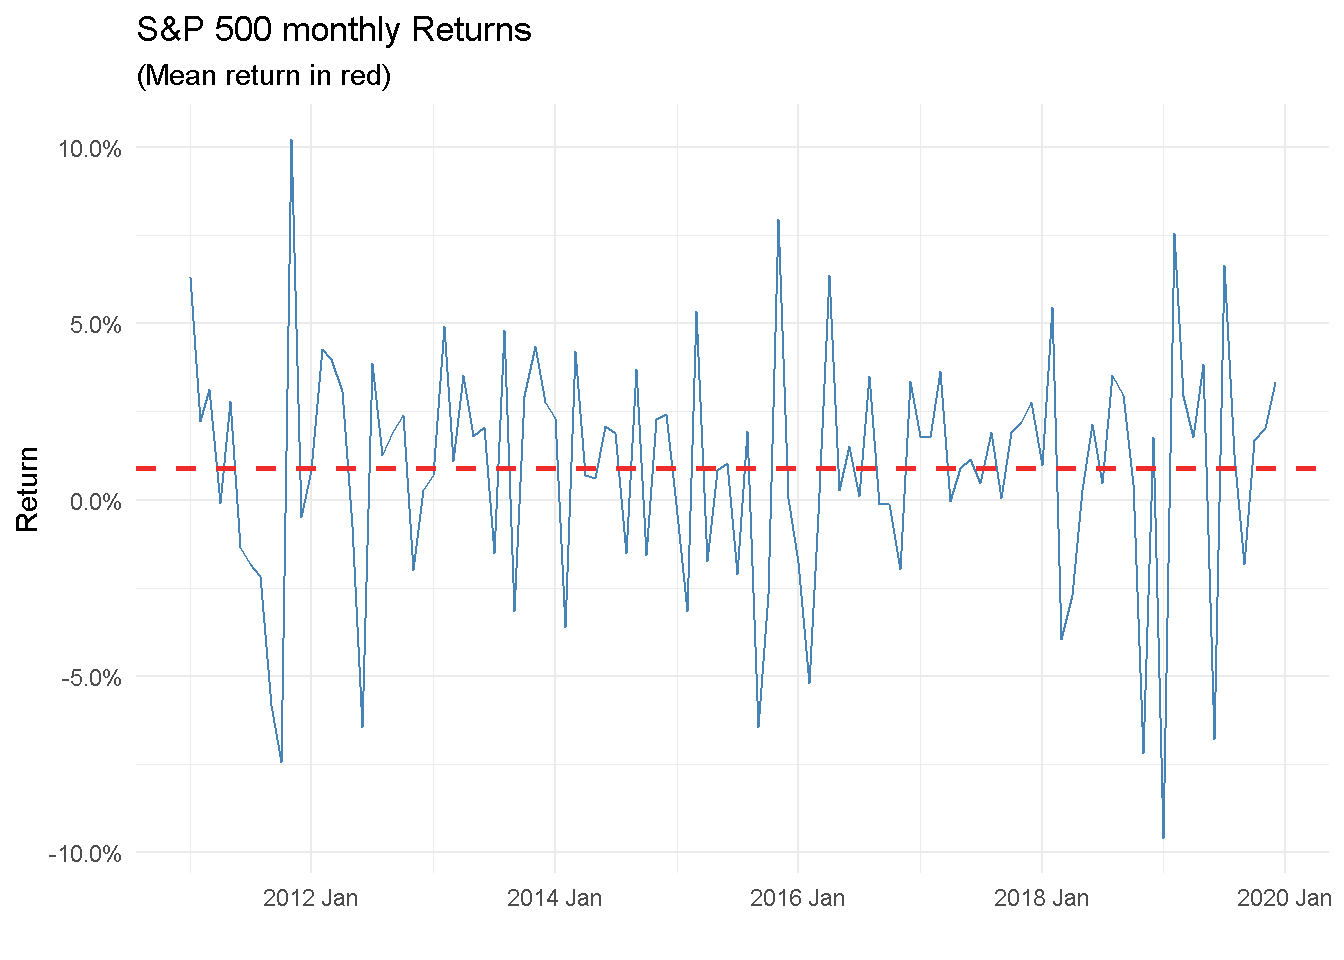
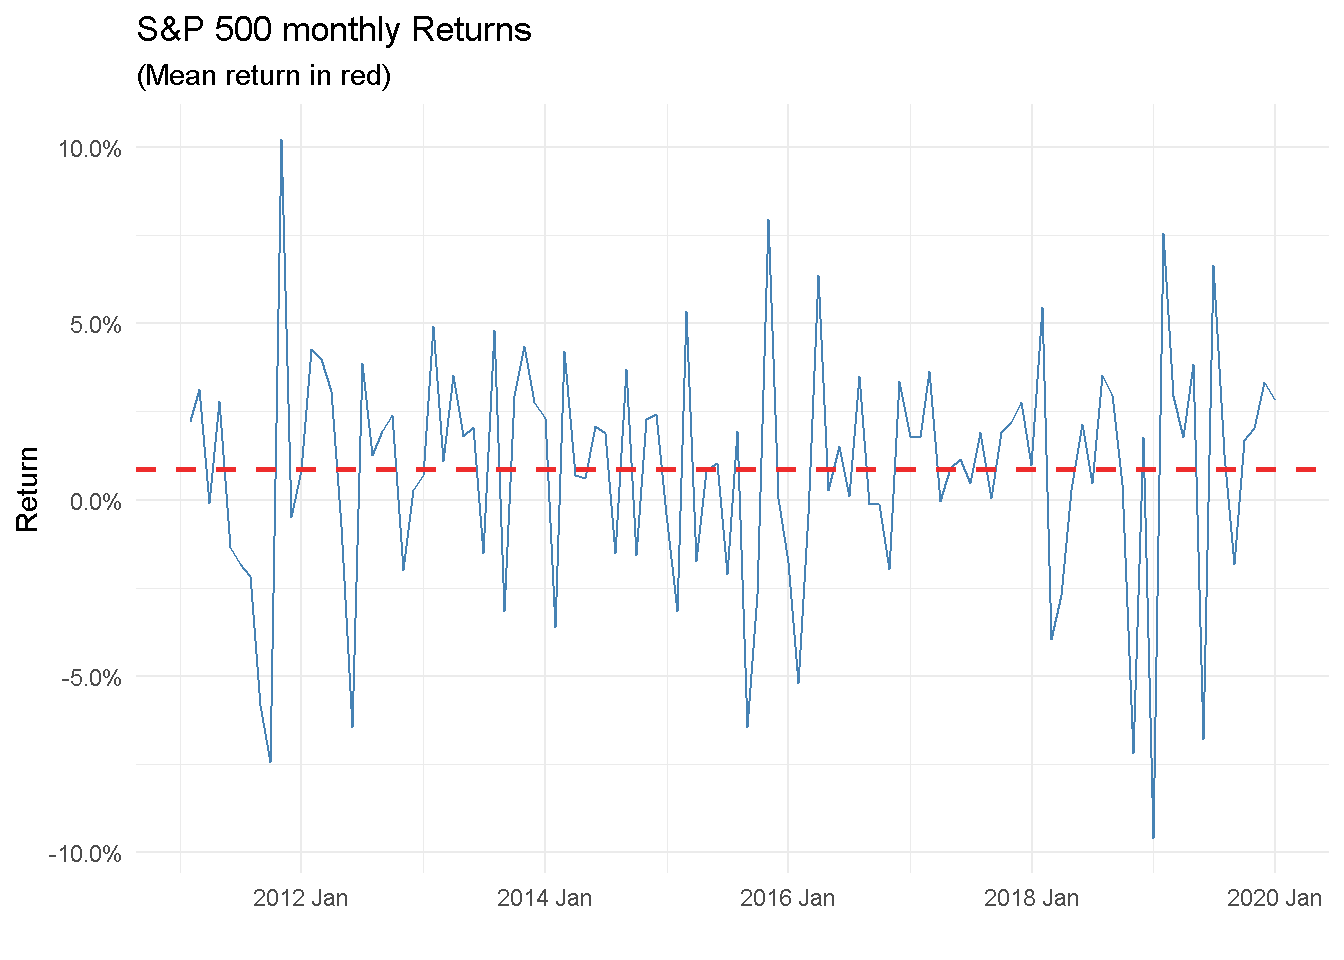
new post

diff --git a/public/post/forecasting-s-p-500-returns-with-r-part-1/index.html b/public/post/forecasting-s-p-500-returns-with-r-part-1/index.html
@@ -24,7 +24,7 @@
         "datePublished": "2020-06-11 00:00:00 \x2b0000 UTC",
         "dateModified" : "2020-06-11 00:00:00 \x2b0000 UTC",
         "url" : "\/post\/forecasting-s-p-500-returns-with-r-part-1\/",
-        "wordCount" : "3032",
+        "wordCount" : "3026",
         "keywords" : [ "Stocks","Blog" ]
     }
     </script>
@@ -72,7 +72,7 @@ Why predict S&amp;P 500 returns? Millions of people are invested in U.S. stocks 
 Why predict S&amp;P 500 returns? Millions of people are invested in U.S. stocks through pension plans and individual investment accounts.">
 <meta itemprop="datePublished" content="2020-06-11T00:00:00&#43;00:00" />
 <meta itemprop="dateModified" content="2020-06-11T00:00:00&#43;00:00" />
-<meta itemprop="wordCount" content="3032">
+<meta itemprop="wordCount" content="3026">
 
 
 
@@ -614,8 +614,7 @@ SP500_tbl &lt;- data %&gt;%
     slice(endpoints(date, on = &quot;month&quot;)) %&gt;%
     mutate(ROC.SP500 = ROC(SP500)) %&gt;%
     drop_na() %&gt;%
-    mutate(date = date + lubridate::days(1)) %&gt;%
-    filter(between(date, &quot;2011-01-01&quot;, &quot;2019-12-01&quot;))
+    filter(between(date, &quot;2011-01-31&quot;, &quot;2019-12-31&quot;))
 
 # Coerce the data to a time series
 SP500_ts &lt;- SP500_tbl %&gt;%
@@ -627,7 +626,7 @@ SP500_tsi &lt;- as_tsibble(SP500_ts, index = date) %&gt;%
 </div>
 <div id="univarite-analysis" class="section level3">
 <h3>Univarite Analysis</h3>
-<p>Let’s look at the S&amp;P 500 time series as a univariate series. Is it possible to predict with reasonable accuracy future returns of the S&amp;P 500 just looking at historical data over the past ten years? Is there predictable seasonality, for example? Let’s take a look at the data in its original form and do some exploratory analysis.</p>
+<p>Let’s look at the S&amp;P 500 time series as a univariate series. Is it possible to predict with reasonable accuracy future returns of the S&amp;P 500 just looking at historical data over the past nine years? Is there predictable seasonality, for example? Let’s take a look at the data in its original form and do some exploratory analysis.</p>
 <pre class="r"><code># Scatterplot
 SP500_tbl %&gt;%
     ggplot(aes(x = date, y = ROC.SP500)) + #, color = ROC.SP500 &gt; mean(ROC.SP500))) +
@@ -643,12 +642,12 @@ SP500_tbl %&gt;%
 <p><img src="/post/forecasting-s-p-500-returns-with-r-part-1_files/figure-html/scatterplot-1.png" width="672" /></p>
 <pre class="r"><code>summary(SP500_tbl)</code></pre>
 <pre><code>##       date                SP500        ROC.SP500        
-##  Min.   :2011-01-01   Min.   :1131   Min.   :-0.096265  
-##  1st Qu.:2013-03-24   1st Qu.:1556   1st Qu.:-0.005685  
-##  Median :2015-06-16   Median :2059   Median : 0.012781  
-##  Mean   :2015-06-16   Mean   :2044   Mean   : 0.009061  
-##  3rd Qu.:2017-09-08   3rd Qu.:2480   3rd Qu.: 0.029301  
-##  Max.   :2019-12-01   Max.   :3141   Max.   : 0.102307</code></pre>
+##  Min.   :2011-01-31   Min.   :1131   Min.   :-0.096265  
+##  1st Qu.:2013-04-22   1st Qu.:1590   1st Qu.:-0.005685  
+##  Median :2015-07-15   Median :2061   Median : 0.012781  
+##  Mean   :2015-07-16   Mean   :2063   Mean   : 0.008736  
+##  3rd Qu.:2017-10-07   3rd Qu.:2510   3rd Qu.: 0.028465  
+##  Max.   :2019-12-31   Max.   :3231   Max.   : 0.102307</code></pre>
 <p>The simple scatter plot doesn’t seem to reveal any clear trends or seasonality. Let’s look at distributions of returns grouped by year. The violin plot is useful here.</p>
 <p>The mean monthly return over the nine-year period 2011-2019 was 0.9%.</p>
 <pre class="r"><code># Violin plot of returns    
@@ -742,7 +741,7 @@ SP500_BoxCox %&gt;%
     scale_x_date(date_labels = &quot;%Y-%b&quot;) +
     theme_minimal()</code></pre>
 <p><img src="/post/forecasting-s-p-500-returns-with-r-part-1_files/figure-html/unnamed-chunk-2-1.png" width="672" /></p>
-<p>Looking at the S&amp;P 500 monthly returns, it appears that over the last 10 years, most monthly returns were positive. There also appeared to be high volatility of returns followed by low volatility and then high volatility again. However, the Breush Pagan test gave evidence that the series is not heteroskedastic (i.e., has stable volatility).</p>
+<p>Looking at the S&amp;P 500 monthly returns, it appears that over the nine year period, most monthly returns were positive. There also appeared to be high volatility of returns followed by low volatility and then high volatility again. However, the Breush Pagan test gave evidence that the series is not heteroskedastic (i.e., has stable volatility).</p>
 <p>In addition, a BoxCox transformation was performed in an attempt to dampen the variance. The plot of the Box-Cox transformed series looked similar to the original S&amp;P 500 returns data. We decided to stay with the original data.</p>
 <p>Let’s check for autocorrelation.</p>
 <pre class="r"><code># Augmented Dickey-Fuller Test for stationarity
@@ -788,13 +787,13 @@ SP500_tsi %&gt;%
     model(ETS(ROC.SP500 ~ season(&quot;A&quot;) + trend(&quot;N&quot;) + error(&quot;A&quot;))) %&gt;% 
     accuracy() %&gt;% 
     pull(RMSE)</code></pre>
-<pre><code>## [1] 0.03282883</code></pre>
+<pre><code>## [1] 0.03191992</code></pre>
 <pre class="r"><code># Exponential time series model with &quot;Additive&quot; Error, &quot;None&quot; trend, and &quot;None&quot; season types
 SP500_tsi %&gt;% 
     model(ETS(ROC.SP500 ~ season(&quot;N&quot;) + trend(&quot;N&quot;) + error(&quot;A&quot;))) %&gt;%
     accuracy() %&gt;% 
     pull(RMSE)</code></pre>
-<pre><code>## [1] 0.03361882</code></pre>
+<pre><code>## [1] 0.03326453</code></pre>
 <p>We noticed that the RMSE of the ETS model without the seasonal component was higher and therefore suggests the seasonal component did not add to the performance of the model.</p>
 </div>
 <div id="model---univariate-time-series" class="section level3">
@@ -878,11 +877,11 @@ fit %&gt;% select(arima) %&gt;% report()</code></pre>
 ## 
 ## Coefficients:
 ##       constant
-##         0.0101
+##         0.0089
 ## s.e.    0.0033
 ## 
-## sigma^2 estimated as 0.0009713:  log likelihood=176.76
-## AIC=-349.52   AICc=-349.38   BIC=-344.61</code></pre>
+## sigma^2 estimated as 0.0009659:  log likelihood=177
+## AIC=-350   AICc=-349.86   BIC=-345.09</code></pre>
 <pre class="r"><code># Create the forecasts
 fcast &lt;- fit %&gt;% 
     forecast(h = nrow(SP500_testing))
@@ -911,16 +910,16 @@ fcast %&gt;%
 <pre class="r"><code># Model performance
 accuracy(fcast, SP500_testing) %&gt;% arrange(desc(RMSE))</code></pre>
 <pre><code>## # A tibble: 8 x 9
-##   .model   .type       ME   RMSE    MAE    MPE  MAPE  MASE   ACF1
-##   &lt;chr&gt;    &lt;chr&gt;    &lt;dbl&gt;  &lt;dbl&gt;  &lt;dbl&gt;  &lt;dbl&gt; &lt;dbl&gt; &lt;dbl&gt;  &lt;dbl&gt;
-## 1 rw       Test  -0.0498  0.0652 0.0528 -193.  329.    NaN -0.282
-## 2 rw.drift Test  -0.0498  0.0652 0.0528 -193.  329.    NaN -0.282
-## 3 tslm     Test  -0.00747 0.0471 0.0331   57.3  97.1   NaN -0.246
-## 4 mixed    Test  -0.0192  0.0463 0.0316  -23.8 134.    NaN -0.268
-## 5 snaive   Test  -0.0117  0.0429 0.0292   24.1  90.3   NaN -0.166
-## 6 arima    Test  -0.00530 0.0424 0.0311   45.7  93.0   NaN -0.282
-## 7 mean     Test  -0.00530 0.0424 0.0311   45.7  93.0   NaN -0.282
-## 8 ets      Test  -0.00530 0.0424 0.0311   45.8  93.0   NaN -0.282</code></pre>
+##   .model   .type       ME   RMSE    MAE   MPE  MAPE  MASE    ACF1
+##   &lt;chr&gt;    &lt;chr&gt;    &lt;dbl&gt;  &lt;dbl&gt;  &lt;dbl&gt; &lt;dbl&gt; &lt;dbl&gt; &lt;dbl&gt;   &lt;dbl&gt;
+## 1 rw       Test   0.0477  0.0630 0.0583 324.  338.    NaN -0.322 
+## 2 rw.drift Test   0.0477  0.0630 0.0583 324.  338.    NaN -0.322 
+## 3 tslm     Test  -0.00203 0.0439 0.0306  56.2  92.2   NaN -0.305 
+## 4 mixed    Test   0.0123  0.0429 0.0357 126.  126.    NaN -0.288 
+## 5 snaive   Test  -0.00396 0.0425 0.0293  30.2  94.1   NaN -0.0806
+## 6 arima    Test  -0.00102 0.0412 0.0300  49.7  88.1   NaN -0.322 
+## 7 mean     Test  -0.00102 0.0412 0.0300  49.7  88.1   NaN -0.322 
+## 8 ets      Test  -0.00101 0.0412 0.0300  49.7  88.1   NaN -0.322</code></pre>
 <pre class="r"><code># Check residuals
 interp.residuals &lt;- fit %&gt;% 
     residuals(type=&quot;response&quot;)

diff --git a/content/post/forecasting-s-p-500-returns-with-r-part-1.html b/content/post/forecasting-s-p-500-returns-with-r-part-1.html
@@ -11,6 +11,8 @@ featured: ''
 featuredalt: ''
 featuredpath: ''
 linktitle: ''
+editor_options: 
+  chunk_output_type: console
 ---
 
 
@@ -104,8 +106,7 @@ SP500_tbl &lt;- data %&gt;%
     slice(endpoints(date, on = &quot;month&quot;)) %&gt;%
     mutate(ROC.SP500 = ROC(SP500)) %&gt;%
     drop_na() %&gt;%
-    mutate(date = date + lubridate::days(1)) %&gt;%
-    filter(between(date, &quot;2011-01-01&quot;, &quot;2019-12-01&quot;))
+    filter(between(date, &quot;2011-01-31&quot;, &quot;2019-12-31&quot;))
 
 # Coerce the data to a time series
 SP500_ts &lt;- SP500_tbl %&gt;%
@@ -117,7 +118,7 @@ SP500_tsi &lt;- as_tsibble(SP500_ts, index = date) %&gt;%
 </div>
 <div id="univarite-analysis" class="section level3">
 <h3>Univarite Analysis</h3>
-<p>Let’s look at the S&amp;P 500 time series as a univariate series. Is it possible to predict with reasonable accuracy future returns of the S&amp;P 500 just looking at historical data over the past ten years? Is there predictable seasonality, for example? Let’s take a look at the data in its original form and do some exploratory analysis.</p>
+<p>Let’s look at the S&amp;P 500 time series as a univariate series. Is it possible to predict with reasonable accuracy future returns of the S&amp;P 500 just looking at historical data over the past nine years? Is there predictable seasonality, for example? Let’s take a look at the data in its original form and do some exploratory analysis.</p>
 <pre class="r"><code># Scatterplot
 SP500_tbl %&gt;%
     ggplot(aes(x = date, y = ROC.SP500)) + #, color = ROC.SP500 &gt; mean(ROC.SP500))) +
@@ -133,12 +134,12 @@ SP500_tbl %&gt;%
 <p><img src="/post/forecasting-s-p-500-returns-with-r-part-1_files/figure-html/scatterplot-1.png" width="672" /></p>
 <pre class="r"><code>summary(SP500_tbl)</code></pre>
 <pre><code>##       date                SP500        ROC.SP500        
-##  Min.   :2011-01-01   Min.   :1131   Min.   :-0.096265  
-##  1st Qu.:2013-03-24   1st Qu.:1556   1st Qu.:-0.005685  
-##  Median :2015-06-16   Median :2059   Median : 0.012781  
-##  Mean   :2015-06-16   Mean   :2044   Mean   : 0.009061  
-##  3rd Qu.:2017-09-08   3rd Qu.:2480   3rd Qu.: 0.029301  
-##  Max.   :2019-12-01   Max.   :3141   Max.   : 0.102307</code></pre>
+##  Min.   :2011-01-31   Min.   :1131   Min.   :-0.096265  
+##  1st Qu.:2013-04-22   1st Qu.:1590   1st Qu.:-0.005685  
+##  Median :2015-07-15   Median :2061   Median : 0.012781  
+##  Mean   :2015-07-16   Mean   :2063   Mean   : 0.008736  
+##  3rd Qu.:2017-10-07   3rd Qu.:2510   3rd Qu.: 0.028465  
+##  Max.   :2019-12-31   Max.   :3231   Max.   : 0.102307</code></pre>
 <p>The simple scatter plot doesn’t seem to reveal any clear trends or seasonality. Let’s look at distributions of returns grouped by year. The violin plot is useful here.</p>
 <p>The mean monthly return over the nine-year period 2011-2019 was 0.9%.</p>
 <pre class="r"><code># Violin plot of returns    
@@ -232,7 +233,7 @@ SP500_BoxCox %&gt;%
     scale_x_date(date_labels = &quot;%Y-%b&quot;) +
     theme_minimal()</code></pre>
 <p><img src="/post/forecasting-s-p-500-returns-with-r-part-1_files/figure-html/unnamed-chunk-2-1.png" width="672" /></p>
-<p>Looking at the S&amp;P 500 monthly returns, it appears that over the last 10 years, most monthly returns were positive. There also appeared to be high volatility of returns followed by low volatility and then high volatility again. However, the Breush Pagan test gave evidence that the series is not heteroskedastic (i.e., has stable volatility).</p>
+<p>Looking at the S&amp;P 500 monthly returns, it appears that over the nine year period, most monthly returns were positive. There also appeared to be high volatility of returns followed by low volatility and then high volatility again. However, the Breush Pagan test gave evidence that the series is not heteroskedastic (i.e., has stable volatility).</p>
 <p>In addition, a BoxCox transformation was performed in an attempt to dampen the variance. The plot of the Box-Cox transformed series looked similar to the original S&amp;P 500 returns data. We decided to stay with the original data.</p>
 <p>Let’s check for autocorrelation.</p>
 <pre class="r"><code># Augmented Dickey-Fuller Test for stationarity
@@ -278,13 +279,13 @@ SP500_tsi %&gt;%
     model(ETS(ROC.SP500 ~ season(&quot;A&quot;) + trend(&quot;N&quot;) + error(&quot;A&quot;))) %&gt;% 
     accuracy() %&gt;% 
     pull(RMSE)</code></pre>
-<pre><code>## [1] 0.03282883</code></pre>
+<pre><code>## [1] 0.03191992</code></pre>
 <pre class="r"><code># Exponential time series model with &quot;Additive&quot; Error, &quot;None&quot; trend, and &quot;None&quot; season types
 SP500_tsi %&gt;% 
     model(ETS(ROC.SP500 ~ season(&quot;N&quot;) + trend(&quot;N&quot;) + error(&quot;A&quot;))) %&gt;%
     accuracy() %&gt;% 
     pull(RMSE)</code></pre>
-<pre><code>## [1] 0.03361882</code></pre>
+<pre><code>## [1] 0.03326453</code></pre>
 <p>We noticed that the RMSE of the ETS model without the seasonal component was higher and therefore suggests the seasonal component did not add to the performance of the model.</p>
 </div>
 <div id="model---univariate-time-series" class="section level3">
@@ -368,11 +369,11 @@ fit %&gt;% select(arima) %&gt;% report()</code></pre>
 ## 
 ## Coefficients:
 ##       constant
-##         0.0101
+##         0.0089
 ## s.e.    0.0033
 ## 
-## sigma^2 estimated as 0.0009713:  log likelihood=176.76
-## AIC=-349.52   AICc=-349.38   BIC=-344.61</code></pre>
+## sigma^2 estimated as 0.0009659:  log likelihood=177
+## AIC=-350   AICc=-349.86   BIC=-345.09</code></pre>
 <pre class="r"><code># Create the forecasts
 fcast &lt;- fit %&gt;% 
     forecast(h = nrow(SP500_testing))
@@ -401,16 +402,16 @@ fcast %&gt;%
 <pre class="r"><code># Model performance
 accuracy(fcast, SP500_testing) %&gt;% arrange(desc(RMSE))</code></pre>
 <pre><code>## # A tibble: 8 x 9
-##   .model   .type       ME   RMSE    MAE    MPE  MAPE  MASE   ACF1
-##   &lt;chr&gt;    &lt;chr&gt;    &lt;dbl&gt;  &lt;dbl&gt;  &lt;dbl&gt;  &lt;dbl&gt; &lt;dbl&gt; &lt;dbl&gt;  &lt;dbl&gt;
-## 1 rw       Test  -0.0498  0.0652 0.0528 -193.  329.    NaN -0.282
-## 2 rw.drift Test  -0.0498  0.0652 0.0528 -193.  329.    NaN -0.282
-## 3 tslm     Test  -0.00747 0.0471 0.0331   57.3  97.1   NaN -0.246
-## 4 mixed    Test  -0.0192  0.0463 0.0316  -23.8 134.    NaN -0.268
-## 5 snaive   Test  -0.0117  0.0429 0.0292   24.1  90.3   NaN -0.166
-## 6 arima    Test  -0.00530 0.0424 0.0311   45.7  93.0   NaN -0.282
-## 7 mean     Test  -0.00530 0.0424 0.0311   45.7  93.0   NaN -0.282
-## 8 ets      Test  -0.00530 0.0424 0.0311   45.8  93.0   NaN -0.282</code></pre>
+##   .model   .type       ME   RMSE    MAE   MPE  MAPE  MASE    ACF1
+##   &lt;chr&gt;    &lt;chr&gt;    &lt;dbl&gt;  &lt;dbl&gt;  &lt;dbl&gt; &lt;dbl&gt; &lt;dbl&gt; &lt;dbl&gt;   &lt;dbl&gt;
+## 1 rw       Test   0.0477  0.0630 0.0583 324.  338.    NaN -0.322 
+## 2 rw.drift Test   0.0477  0.0630 0.0583 324.  338.    NaN -0.322 
+## 3 tslm     Test  -0.00203 0.0439 0.0306  56.2  92.2   NaN -0.305 
+## 4 mixed    Test   0.0123  0.0429 0.0357 126.  126.    NaN -0.288 
+## 5 snaive   Test  -0.00396 0.0425 0.0293  30.2  94.1   NaN -0.0806
+## 6 arima    Test  -0.00102 0.0412 0.0300  49.7  88.1   NaN -0.322 
+## 7 mean     Test  -0.00102 0.0412 0.0300  49.7  88.1   NaN -0.322 
+## 8 ets      Test  -0.00101 0.0412 0.0300  49.7  88.1   NaN -0.322</code></pre>
 <pre class="r"><code># Check residuals
 interp.residuals &lt;- fit %&gt;% 
     residuals(type=&quot;response&quot;)

diff --git a/public/index.html b/public/index.html
@@ -534,8 +534,7 @@ SP500_tbl &lt;- data %&gt;%
     slice(endpoints(date, on = &quot;month&quot;)) %&gt;%
     mutate(ROC.SP500 = ROC(SP500)) %&gt;%
     drop_na() %&gt;%
-    mutate(date = date + lubridate::days(1)) %&gt;%
-    filter(between(date, &quot;2011-01-01&quot;, &quot;2019-12-01&quot;))
+    filter(between(date, &quot;2011-01-31&quot;, &quot;2019-12-31&quot;))
 
 # Coerce the data to a time series
 SP500_ts &lt;- SP500_tbl %&gt;%
@@ -547,7 +546,7 @@ SP500_tsi &lt;- as_tsibble(SP500_ts, index = date) %&gt;%
 </div>
 <div id="univarite-analysis" class="section level3">
 <h3>Univarite Analysis</h3>
-<p>Let’s look at the S&amp;P 500 time series as a univariate series. Is it possible to predict with reasonable accuracy future returns of the S&amp;P 500 just looking at historical data over the past ten years? Is there predictable seasonality, for example? Let’s take a look at the data in its original form and do some exploratory analysis.</p>
+<p>Let’s look at the S&amp;P 500 time series as a univariate series. Is it possible to predict with reasonable accuracy future returns of the S&amp;P 500 just looking at historical data over the past nine years? Is there predictable seasonality, for example? Let’s take a look at the data in its original form and do some exploratory analysis.</p>
 <pre class="r"><code># Scatterplot
 SP500_tbl %&gt;%
     ggplot(aes(x = date, y = ROC.SP500)) + #, color = ROC.SP500 &gt; mean(ROC.SP500))) +
@@ -563,12 +562,12 @@ SP500_tbl %&gt;%
 <p><img src="/post/forecasting-s-p-500-returns-with-r-part-1_files/figure-html/scatterplot-1.png" width="672" /></p>
 <pre class="r"><code>summary(SP500_tbl)</code></pre>
 <pre><code>##       date                SP500        ROC.SP500        
-##  Min.   :2011-01-01   Min.   :1131   Min.   :-0.096265  
-##  1st Qu.:2013-03-24   1st Qu.:1556   1st Qu.:-0.005685  
-##  Median :2015-06-16   Median :2059   Median : 0.012781  
-##  Mean   :2015-06-16   Mean   :2044   Mean   : 0.009061  
-##  3rd Qu.:2017-09-08   3rd Qu.:2480   3rd Qu.: 0.029301  
-##  Max.   :2019-12-01   Max.   :3141   Max.   : 0.102307</code></pre>
+##  Min.   :2011-01-31   Min.   :1131   Min.   :-0.096265  
+##  1st Qu.:2013-04-22   1st Qu.:1590   1st Qu.:-0.005685  
+##  Median :2015-07-15   Median :2061   Median : 0.012781  
+##  Mean   :2015-07-16   Mean   :2063   Mean   : 0.008736  
+##  3rd Qu.:2017-10-07   3rd Qu.:2510   3rd Qu.: 0.028465  
+##  Max.   :2019-12-31   Max.   :3231   Max.   : 0.102307</code></pre>
 <p>The simple scatter plot doesn’t seem to reveal any clear trends or seasonality. Let’s look at distributions of returns grouped by year. The violin plot is useful here.</p>
 <p>The mean monthly return over the nine-year period 2011-2019 was 0.9%.</p>
 <pre class="r"><code># Violin plot of returns    
@@ -662,7 +661,7 @@ SP500_BoxCox %&gt;%
     scale_x_date(date_labels = &quot;%Y-%b&quot;) +
     theme_minimal()</code></pre>
 <p><img src="/post/forecasting-s-p-500-returns-with-r-part-1_files/figure-html/unnamed-chunk-2-1.png" width="672" /></p>
-<p>Looking at the S&amp;P 500 monthly returns, it appears that over the last 10 years, most monthly returns were positive. There also appeared to be high volatility of returns followed by low volatility and then high volatility again. However, the Breush Pagan test gave evidence that the series is not heteroskedastic (i.e., has stable volatility).</p>
+<p>Looking at the S&amp;P 500 monthly returns, it appears that over the nine year period, most monthly returns were positive. There also appeared to be high volatility of returns followed by low volatility and then high volatility again. However, the Breush Pagan test gave evidence that the series is not heteroskedastic (i.e., has stable volatility).</p>
 <p>In addition, a BoxCox transformation was performed in an attempt to dampen the variance. The plot of the Box-Cox transformed series looked similar to the original S&amp;P 500 returns data. We decided to stay with the original data.</p>
 <p>Let’s check for autocorrelation.</p>
 <pre class="r"><code># Augmented Dickey-Fuller Test for stationarity
@@ -708,13 +707,13 @@ SP500_tsi %&gt;%
     model(ETS(ROC.SP500 ~ season(&quot;A&quot;) + trend(&quot;N&quot;) + error(&quot;A&quot;))) %&gt;% 
     accuracy() %&gt;% 
     pull(RMSE)</code></pre>
-<pre><code>## [1] 0.03282883</code></pre>
+<pre><code>## [1] 0.03191992</code></pre>
 <pre class="r"><code># Exponential time series model with &quot;Additive&quot; Error, &quot;None&quot; trend, and &quot;None&quot; season types
 SP500_tsi %&gt;% 
     model(ETS(ROC.SP500 ~ season(&quot;N&quot;) + trend(&quot;N&quot;) + error(&quot;A&quot;))) %&gt;%
     accuracy() %&gt;% 
     pull(RMSE)</code></pre>
-<pre><code>## [1] 0.03361882</code></pre>
+<pre><code>## [1] 0.03326453</code></pre>
 <p>We noticed that the RMSE of the ETS model without the seasonal component was higher and therefore suggests the seasonal component did not add to the performance of the model.</p>
 </div>
 <div id="model---univariate-time-series" class="section level3">
@@ -798,11 +797,11 @@ fit %&gt;% select(arima) %&gt;% report()</code></pre>
 ## 
 ## Coefficients:
 ##       constant
-##         0.0101
+##         0.0089
 ## s.e.    0.0033
 ## 
-## sigma^2 estimated as 0.0009713:  log likelihood=176.76
-## AIC=-349.52   AICc=-349.38   BIC=-344.61</code></pre>
+## sigma^2 estimated as 0.0009659:  log likelihood=177
+## AIC=-350   AICc=-349.86   BIC=-345.09</code></pre>
 <pre class="r"><code># Create the forecasts
 fcast &lt;- fit %&gt;% 
     forecast(h = nrow(SP500_testing))
@@ -831,16 +830,16 @@ fcast %&gt;%
 <pre class="r"><code># Model performance
 accuracy(fcast, SP500_testing) %&gt;% arrange(desc(RMSE))</code></pre>
 <pre><code>## # A tibble: 8 x 9
-##   .model   .type       ME   RMSE    MAE    MPE  MAPE  MASE   ACF1
-##   &lt;chr&gt;    &lt;chr&gt;    &lt;dbl&gt;  &lt;dbl&gt;  &lt;dbl&gt;  &lt;dbl&gt; &lt;dbl&gt; &lt;dbl&gt;  &lt;dbl&gt;
-## 1 rw       Test  -0.0498  0.0652 0.0528 -193.  329.    NaN -0.282
-## 2 rw.drift Test  -0.0498  0.0652 0.0528 -193.  329.    NaN -0.282
-## 3 tslm     Test  -0.00747 0.0471 0.0331   57.3  97.1   NaN -0.246
-## 4 mixed    Test  -0.0192  0.0463 0.0316  -23.8 134.    NaN -0.268
-## 5 snaive   Test  -0.0117  0.0429 0.0292   24.1  90.3   NaN -0.166
-## 6 arima    Test  -0.00530 0.0424 0.0311   45.7  93.0   NaN -0.282
-## 7 mean     Test  -0.00530 0.0424 0.0311   45.7  93.0   NaN -0.282
-## 8 ets      Test  -0.00530 0.0424 0.0311   45.8  93.0   NaN -0.282</code></pre>
+##   .model   .type       ME   RMSE    MAE   MPE  MAPE  MASE    ACF1
+##   &lt;chr&gt;    &lt;chr&gt;    &lt;dbl&gt;  &lt;dbl&gt;  &lt;dbl&gt; &lt;dbl&gt; &lt;dbl&gt; &lt;dbl&gt;   &lt;dbl&gt;
+## 1 rw       Test   0.0477  0.0630 0.0583 324.  338.    NaN -0.322 
+## 2 rw.drift Test   0.0477  0.0630 0.0583 324.  338.    NaN -0.322 
+## 3 tslm     Test  -0.00203 0.0439 0.0306  56.2  92.2   NaN -0.305 
+## 4 mixed    Test   0.0123  0.0429 0.0357 126.  126.    NaN -0.288 
+## 5 snaive   Test  -0.00396 0.0425 0.0293  30.2  94.1   NaN -0.0806
+## 6 arima    Test  -0.00102 0.0412 0.0300  49.7  88.1   NaN -0.322 
+## 7 mean     Test  -0.00102 0.0412 0.0300  49.7  88.1   NaN -0.322 
+## 8 ets      Test  -0.00101 0.0412 0.0300  49.7  88.1   NaN -0.322</code></pre>
 <pre class="r"><code># Check residuals
 interp.residuals &lt;- fit %&gt;% 
     residuals(type=&quot;response&quot;)
